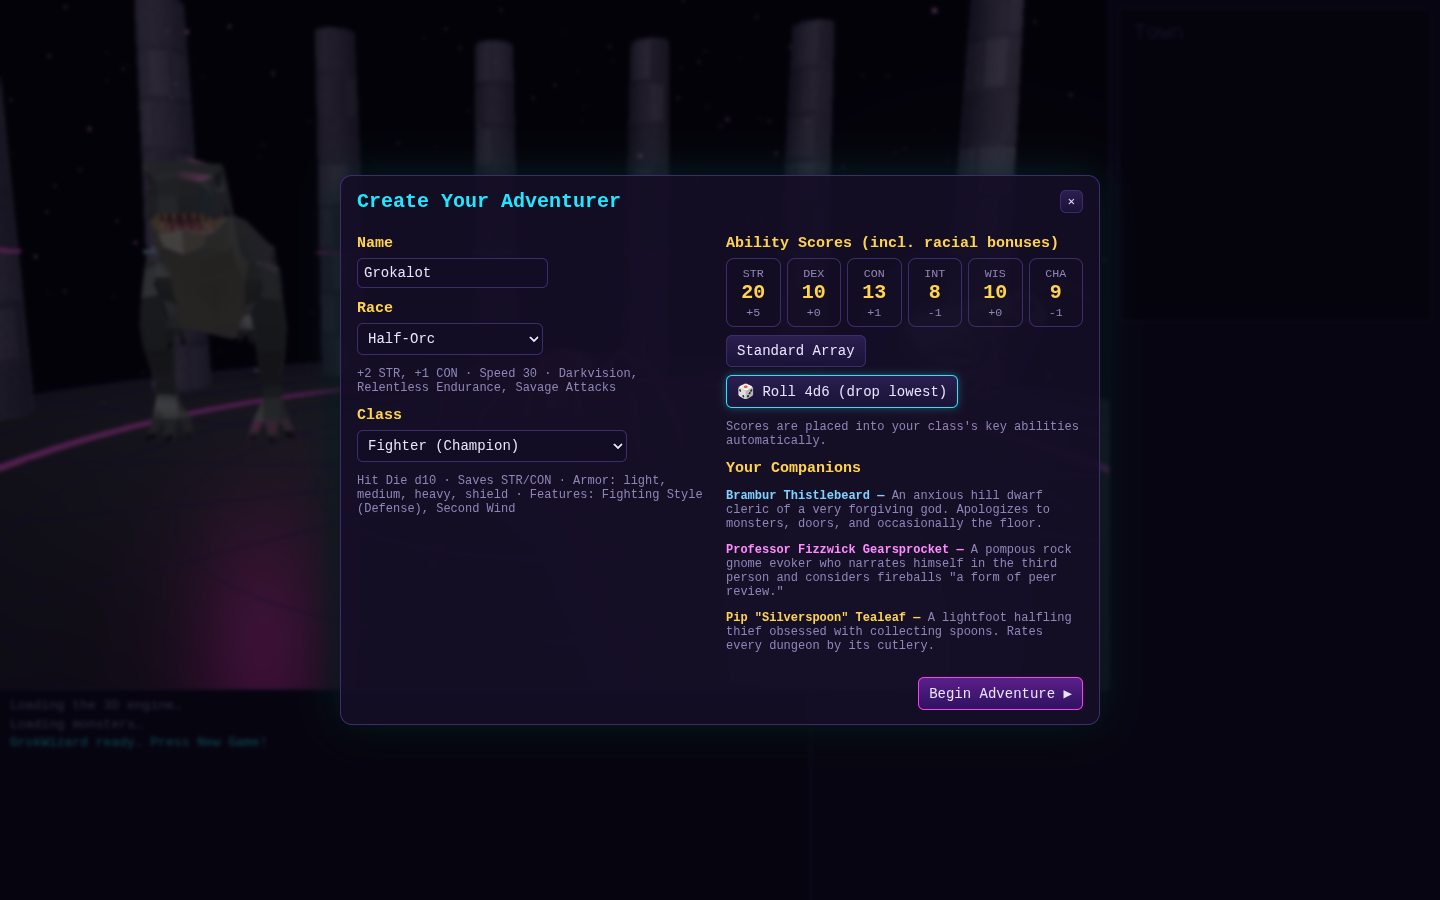
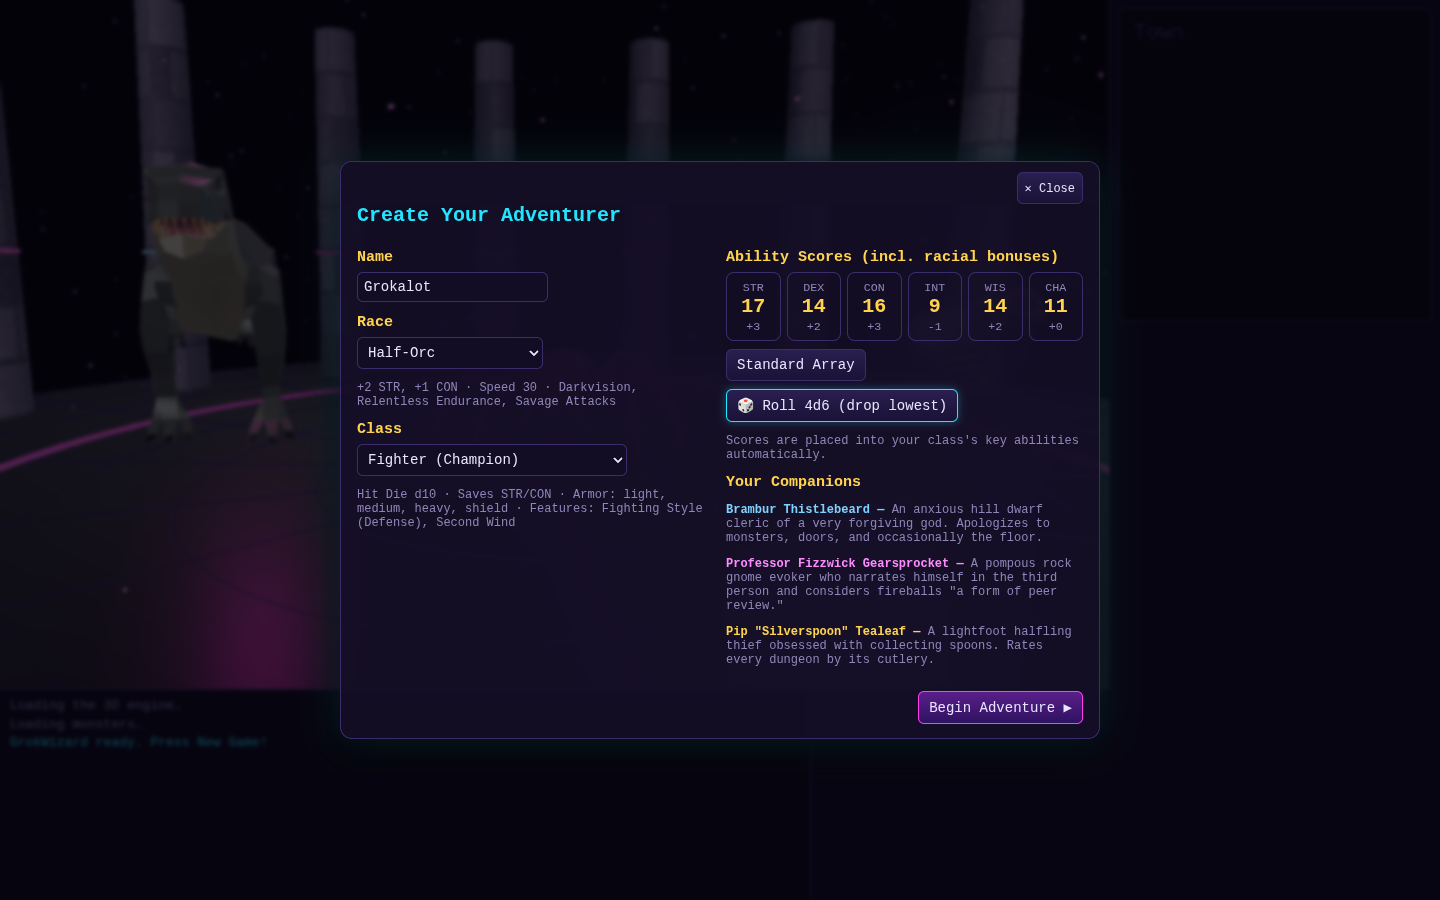
Fix town dialogs stranding the player (Training Grounds sheet close), sticky Back/Close, Esc, save normalisation, town e2e + click-through tests

Changed region(s): [[0.5, 0.1556, 0.75, 0.8089], [0.25, 0.2178, 0.4688, 0.5911]]

diff --git a/e2e/town.spec.js b/e2e/town.spec.js
@@ -1,0 +1,128 @@
+import { test, expect } from '@playwright/test';
+import { trackErrors, expectReachable, townSquare, newGame, LOCATIONS, openLocation, recoverToTown } from './helpers.js';
+
+test.describe.configure({ timeout: 300000 });
+
+test('every town location + sub-screen has a working, reachable Back; then enter the dungeon', async ({ page }, info) => {
+  const errors = trackErrors(page);
+  await newGame(page);
+
+  // Inn is an action on the square (no sub-screen): must leave us on the square.
+  await page.locator('#modal button', { hasText: 'Inn' }).click();
+  await expect(townSquare(page)).toBeVisible();
+
+  for (const loc of LOCATIONS) {
+    await openLocation(page, loc.button);
+    for (const where of ['top', 'bottom']) {
+      const back = page.locator(`#modal .backbtn[data-back="${where}"]`);
+      await expectReachable(page, back, `${loc.key} Back (${where})`);
+    }
+    await page.screenshot({ path: `screenshots/town-${info.project.name}-${loc.key}.png` });
+    await page.locator('#modal .backbtn[data-back="bottom"]').click();
+    await expect(townSquare(page), `back from ${loc.key}`).toBeVisible();
+  }
+
+  // Training Grounds: each "Sheet" sub-dialog must close back INTO the Training Grounds (the reported trap)
+  await openLocation(page, 'Training Grounds');
+  const sheets = page.locator('#modal button', { hasText: /^Sheet$/ });
+  const n = await sheets.count(); expect(n).toBe(4);
+  for (let i = 0; i < n; i++) {
+    await sheets.nth(i).click();
+    const close = page.locator('#modal .closebtn');
+    await expectReachable(page, close, `Sheet ${i} close`);
+    if (i === 0) await page.screenshot({ path: `screenshots/town-${info.project.name}-train-sheet.png` });
+    // the sheet's own party tabs must also keep a working close
+    await page.locator('#modal .tabs button').last().click();
+    await page.locator('#modal .closebtn').click();
+    await expect(page.locator('#modal .backbtn').first(), 'returned to Training Grounds').toBeVisible();
+    await expect(page.locator('#modal h2').first()).toContainText('Training Grounds');
+  }
+  // Level-up flow
+  await page.evaluate(() => { for (const c of window.__gw.state.party) c.xp = 300; });
+  await page.locator('#modal .backbtn').first().click(); await openLocation(page, 'Training Grounds');
+  const train = page.locator('#modal button', { hasText: /Train .* to level 2/ });
+  expect(await train.count()).toBe(4);
+  for (let i = 0; i < 4; i++) { await train.first().click(); await expect(page.locator('#modal h2').first()).toContainText('Training Grounds'); }
+  expect(await page.evaluate(() => window.__gw.state.party.map((c) => c.level))).toEqual([2, 2, 2, 2]);
+  await expectReachable(page, page.locator('#modal .backbtn').first(), 'Back after level-ups');
+
+  // Party cards (sidebar) open a sheet from any town screen; closing must restore that screen
+  // (on phones the town panel is full-screen, so the sidebar is intentionally under it)
+  if (!info.project.name.startsWith('iphone')) {
+    await page.locator('#party .card').first().click({ position: { x: 20, y: 30 } });
+    await page.locator('#modal .closebtn').click();
+    await expect(page.locator('#modal h2').first()).toContainText('Training Grounds');
+  }
+
+  // Esc: from a sheet → back to the sub-screen; from a sub-screen → town square
+  if (!info.project.name.startsWith('iphone')) {
+    await page.locator('#modal button', { hasText: /^Sheet$/ }).first().click();
+    await page.keyboard.press('Escape');
+    await expect(page.locator('#modal h2').first()).toContainText('Training Grounds');
+    await page.keyboard.press('Escape');
+    await expect(townSquare(page)).toBeVisible();
+  } else {
+    await page.locator('#modal .backbtn').first().click();
+  }
+
+  // Shop sub-actions keep the shop open with Back
+  await openLocation(page, 'Trading Post');
+  await page.locator('#modal button', { hasText: 'Potion of Healing' }).first().click();
+  await expectReachable(page, page.locator('#modal .backbtn').first(), 'shop Back after buying');
+  await recoverToTown(page, 'shop');
+
+  // Enter the dungeon
+  await openLocation(page, 'Edge of Town');
+  await page.click('#btn-enter');
+  await expect(page.locator('#controls button').first()).toBeVisible();
+  await expect.poll(() => page.evaluate(() => window.__gw.state.mode)).toBe('dungeon');
+  expect(errors, errors.join('\n')).toEqual([]);
+});
+
+test('existing saves load into the town square (never stuck in Training Grounds)', async ({ page }) => {
+  const errors = trackErrors(page);
+  await newGame(page);
+  await openLocation(page, 'Training Grounds');
+  // a save made while on the training screen, plus an older/odd save shape
+  await page.evaluate(() => { const s = window.__gw.state; const old = JSON.parse(JSON.stringify(s)); old.mode = 'train'; delete old.explored; delete old.mods; localStorage.setItem('grokwizard.save.v1', JSON.stringify(old)); });
+  await page.reload(); await page.waitForSelector('#btn-new', { timeout: 90000 });
+  await page.locator('#modal button', { hasText: 'Continue' }).click();
+  await expect(townSquare(page)).toBeVisible();
+  await openLocation(page, 'Training Grounds');
+  await page.locator('#modal .backbtn').first().click();
+  await expect(townSquare(page)).toBeVisible();
+  expect(errors, errors.join('\n')).toEqual([]);
+});
+
+test('click-through: every visible button on every town screen leaves a way back to town', async ({ page }) => {
+  test.setTimeout(900000);
+  const errors = trackErrors(page);
+  await newGame(page);
+  const SKIP = /Title Screen|Load Game|Descend the stairs|Mine lift|^Begin|✕/;
+  const screens = [null, ...LOCATIONS.map((l) => l.button)];
+  let clicked = 0;
+  for (const scr of screens) {
+    await recoverToTown(page, 'start');
+    if (scr) await openLocation(page, scr);
+    const labels = await page.locator('#modal button:visible').evaluateAll((bs) => bs.map((b) => (b.disabled ? null : b.textContent.trim())));
+    for (let i = 0; i < labels.length; i++) {
+      const label = labels[i]; if (!label || SKIP.test(label)) continue;
+      await recoverToTown(page, 'reset'); if (scr) await openLocation(page, scr);
+      const btn = page.locator('#modal button:visible').nth(i);
+      if (!(await btn.count()) || (await btn.isDisabled()) || (await btn.textContent()).trim() !== label) continue;
+      await btn.click(); clicked++;
+      // one level deeper: also click everything on any dialog it opened (sheets, tabs…)
+      const inner = await page.locator('#modal button:visible').evaluateAll((bs) => bs.map((b) => (b.disabled ? null : b.textContent.trim())));
+      for (let j = 0; j < Math.min(inner.length, 12); j++) {
+        const l2 = inner[j]; if (!l2 || SKIP.test(l2) || /Back to Town/.test(l2)) continue;
+        const b2 = page.locator('#modal button:visible').nth(j);
+        if (!(await b2.count()) || (await b2.isDisabled())) continue;
+        if ((await b2.textContent()).trim() !== l2) continue;
+        await b2.click(); clicked++;
+      }
+      await recoverToTown(page, `${scr || 'square'} → "${label}"`);
+    }
+  }
+  expect(clicked).toBeGreaterThan(30);
+  expect(errors, errors.join('\n')).toEqual([]);
+});

diff --git a/src/main.js b/src/main.js
@@ -115,7 +115,7 @@ function doSearch() {
 window.addEventListener('keydown', (e) => {
   if (!S) return;
   if (combat) return combatKey(e);
-  if (!modal.classList.contains('hidden')) { if (e.key === 'Escape' && modal.dataset.closable) closeModal(); return; }
+  if (!modal.classList.contains('hidden')) { if (e.key === 'Escape') { if (modal.dataset.closable) dismissModal(); else if (S.mode === 'town' && townSub) showTown(); } return; }
   if (S.mode !== 'dungeon' || busy) return;
   const k = e.key.toLowerCase();
   const map = { arrowup: () => G.move(S, 0), w: () => G.move(S, 0), arrowdown: () => G.move(S, 2), s: () => G.move(S, 2), arrowleft: () => G.turn(S, -1), a: () => G.turn(S, -1), arrowright: () => G.turn(S, 1), d: () => G.turn(S, 1), q: () => G.move(S, 3), e: () => G.move(S, 1) };
@@ -137,10 +137,12 @@ $('#view').addEventListener('touchend', (e) => {
 function openModal(content, { closable = true, cls = '' } = {}) {
   modal.className = cls; modal.innerHTML = ''; modal.dataset.closable = closable ? '1' : '';
   const p = h('div', { class: 'panel' }, content); modal.append(p);
-  if (closable) p.prepend(h('div', { style: 'float:right' }, btn('✕', closeModal, { class: 'small', 'aria-label': 'Close' })));
+  if (closable) p.prepend(h('div', { class: 'navbar closebar' }, btn('✕ Close', dismissModal, { class: 'small closebtn', 'aria-label': 'Close' })));
   return p;
 }
 function closeModal() { modal.className = 'hidden'; modal.innerHTML = ''; }
+// Closing a dialog (✕ / Esc) must never strand the player: in town, fall back to the town screen they came from.
+function dismissModal() { closeModal(); if (!S) showTitle(); else if (S.mode === 'town' && !combat) showTown(townSub); }
 
 /* ---------- Title & creation ---------- */
 async function showTitle() {
@@ -204,10 +206,12 @@ function showCreate() {
 }
 
 /* ---------- Town ---------- */
+let townSub = null;
 function showTown(sub = null) {
+  townSub = sub;
   S.mode = 'town'; combat = null; endCombatUI(); setControls(null); R.setMode('combat'); R.clearMonsters(); refresh();
-  const back = btn('← Back to Town Square', () => showTown());
-  const P = (content) => openModal([h('h2', {}, 'Grokhaven'), content, sub ? h('div', { style: 'margin-top:10px' }, back) : null], { closable: false, cls: 'transparent' });
+  const back = (where) => btn('← Back to Town Square', () => showTown(), { class: 'backbtn', 'data-back': where });
+  const P = (content) => openModal([h('div', { class: 'navbar' }, h('h2', {}, sub ? `Grokhaven · ${{ tavern: 'Tavern', temple: 'Temple', shop: 'Trading Post', train: 'Training Grounds', edge: 'Edge of Town' }[sub]}` : 'Grokhaven'), sub ? back('top') : null), content, sub ? h('div', { style: 'margin-top:10px' }, back('bottom')) : null], { closable: false, cls: 'transparent' });
   if (!sub) {
     P(h('div', { class: 'menu grid' },
       btn('🍺 The Boar & Spoon Tavern', () => showTown('tavern'), { id: 'btn-tavern' }),

diff --git a/e2e/helpers.js b/e2e/helpers.js
@@ -1,0 +1,53 @@
+import { expect } from '@playwright/test';
+
+export function trackErrors(page) {
+  const errors = [];
+  page.on('console', (m) => { if (m.type() === 'error') errors.push(m.text()); });
+  page.on('pageerror', (e) => errors.push(String(e)));
+  return errors;
+}
+
+/** Fully on-screen, not covered by other UI, and clickable. */
+export async function expectReachable(page, loc, what) {
+  await expect(loc, `${what} visible`).toBeVisible();
+  await loc.scrollIntoViewIfNeeded();
+  const vp = page.viewportSize(); const b = await loc.boundingBox();
+  expect(b, `${what} has a box`).toBeTruthy();
+  expect(b.x >= -1 && b.y >= -1 && b.x + b.width <= vp.width + 1 && b.y + b.height <= vp.height + 1, `${what} inside viewport ${JSON.stringify(b)} vs ${JSON.stringify(vp)}`).toBe(true);
+  const onTop = await loc.evaluate((el) => { const r = el.getBoundingClientRect(); const t = document.elementFromPoint(r.x + r.width / 2, r.y + r.height / 2); return !!t && (t === el || el.contains(t)); });
+  expect(onTop, `${what} not covered by other UI`).toBe(true);
+  expect(b.height, `${what} tall enough to tap`).toBeGreaterThanOrEqual(24);
+}
+
+export const townSquare = (page) => page.locator('#btn-tavern');
+
+export async function newGame(page) {
+  await page.goto('./');
+  await page.waitForSelector('#btn-new', { timeout: 90000 });
+  await page.click('#btn-new'); await page.click('#btn-begin');
+  await expect(townSquare(page)).toBeVisible();
+  await page.evaluate(() => { window.__gw.state.gold = 5000; });
+}
+
+export const LOCATIONS = [
+  { key: 'tavern', button: 'Tavern' },
+  { key: 'temple', button: 'Temple' },
+  { key: 'shop', button: 'Trading Post' },
+  { key: 'train', button: 'Training Grounds' },
+  { key: 'edge', button: 'Edge of Town' },
+];
+export const openLocation = (page, name) => page.locator('#modal button', { hasText: name }).first().click();
+
+/** From any screen, get back to the town square using only visible UI. */
+export async function recoverToTown(page, ctx) {
+  for (let i = 0; i < 4; i++) {
+    if (await townSquare(page).isVisible()) return;
+    const close = page.locator('#modal .closebtn:visible').first();
+    const back = page.locator('#modal .backbtn:visible').first();
+    if (await close.count()) { await expectReachable(page, close, `Close (${ctx})`); await close.click(); }
+    else if (await back.count()) { await expectReachable(page, back, `Back (${ctx})`); await back.click(); }
+    else break;
+    await page.waitForTimeout(100);
+  }
+  await expect(townSquare(page), `stranded after ${ctx}: no way back to town`).toBeVisible();
+}

diff --git a/src/style.css b/src/style.css
@@ -105,3 +105,19 @@ body.incombat #bottom { grid-template-columns: 1fr 420px; }
   body.incombat #cmenu { max-height: 52vh; }
   #cmenu .combatmenu button { min-height: 32px; padding: 4px 6px; }
 }
+
+/* sticky nav so Back / Close is always reachable, even on short phone screens */
+.panel > .navbar { position: sticky; top: -14px; z-index: 3; display: flex; align-items: center; justify-content: space-between; gap: 8px; flex-wrap: wrap; background: var(--panel); margin: -14px -16px 8px; padding: 10px 16px 8px; border-bottom: 1px solid var(--line); }
+.panel > .navbar h2 { margin: 0; }
+.panel > .closebar { justify-content: flex-end; border-bottom: none; padding-bottom: 0; margin-bottom: 0; }
+.backbtn { white-space: nowrap; }
+@media (max-width: 760px), (max-height: 520px) and (orientation: landscape) {
+  .panel > .navbar { top: -10px; margin: -10px -10px 8px; padding: 8px 10px; }
+  .backbtn, .closebtn { min-height: 40px; }
+  #modal { inset: 0; padding: env(safe-area-inset-top) env(safe-area-inset-right) env(safe-area-inset-bottom) env(safe-area-inset-left); box-sizing: border-box; }
+  #modal .panel { max-height: 100%; box-sizing: border-box; }
+}
+.backbtn, .closebtn { min-height: 32px; }
+/* town screens float over the scene; let taps reach the party sidebar (sheets, AI toggles) around the panel */
+#modal.transparent { pointer-events: none; }
+#modal.transparent .panel { pointer-events: auto; }

diff --git a/src/game/game.js b/src/game/game.js
@@ -316,7 +316,15 @@ export function usePotion(s, idx, c) {
 
 /* ---------- Save / Load ---------- */
 export function serialize(s) { return JSON.stringify(s); }
-export function deserialize(str) { const s = JSON.parse(str); if (!s || !s.party) throw new Error('bad save'); return s; }
+export function deserialize(str) {
+  const s = JSON.parse(str); if (!s || !Array.isArray(s.party) || !s.party.length) throw new Error('bad save');
+  // normalise older / odd saves so they always land somewhere playable (never inside a town sub-screen or a stale combat)
+  if (s.mode !== 'dungeon') s.mode = 'town';
+  s.mods ||= [{}, {}, {}]; s.explored ||= [[], [], []]; s.bossDead ||= [false, false, false];
+  s.level = Math.min(2, Math.max(0, s.level | 0)); s.maxDepth = Math.max(s.maxDepth | 0, s.level);
+  if (s.mode === 'dungeon' && !(Number.isInteger(s.x) && Number.isInteger(s.y))) s.mode = 'town';
+  return s;
+}
 export function campDialogue(s) {
   const alive = s.party.filter((c) => c.companion && !c.dead);
   if (!alive.length) return 'The camp is quiet. Too quiet.';

diff --git a/playwright.config.js b/playwright.config.js
@@ -1,8 +1,8 @@
 import { defineConfig, devices } from '@playwright/test';
 const gl = ['--use-gl=angle', '--use-angle=swiftshader', '--enable-unsafe-swiftshader', '--ignore-gpu-blocklist'];
 export default defineConfig({
-  testDir: 'e2e', timeout: 180000, retries: 0, workers: 1,
-  use: { baseURL: 'http://localhost:4173/', launchOptions: { args: gl } },
+  testDir: 'e2e', timeout: 240000, retries: 0, workers: 1,
+  use: { baseURL: 'http://localhost:4173/', actionTimeout: 15000, launchOptions: { args: gl } },
   webServer: { command: 'npx vite preview --port 4173 --strictPort', port: 4173, reuseExistingServer: true },
   projects: [
     { name: 'desktop', use: { ...devices['Desktop Chrome'], viewport: { width: 1440, height: 900 } } },
